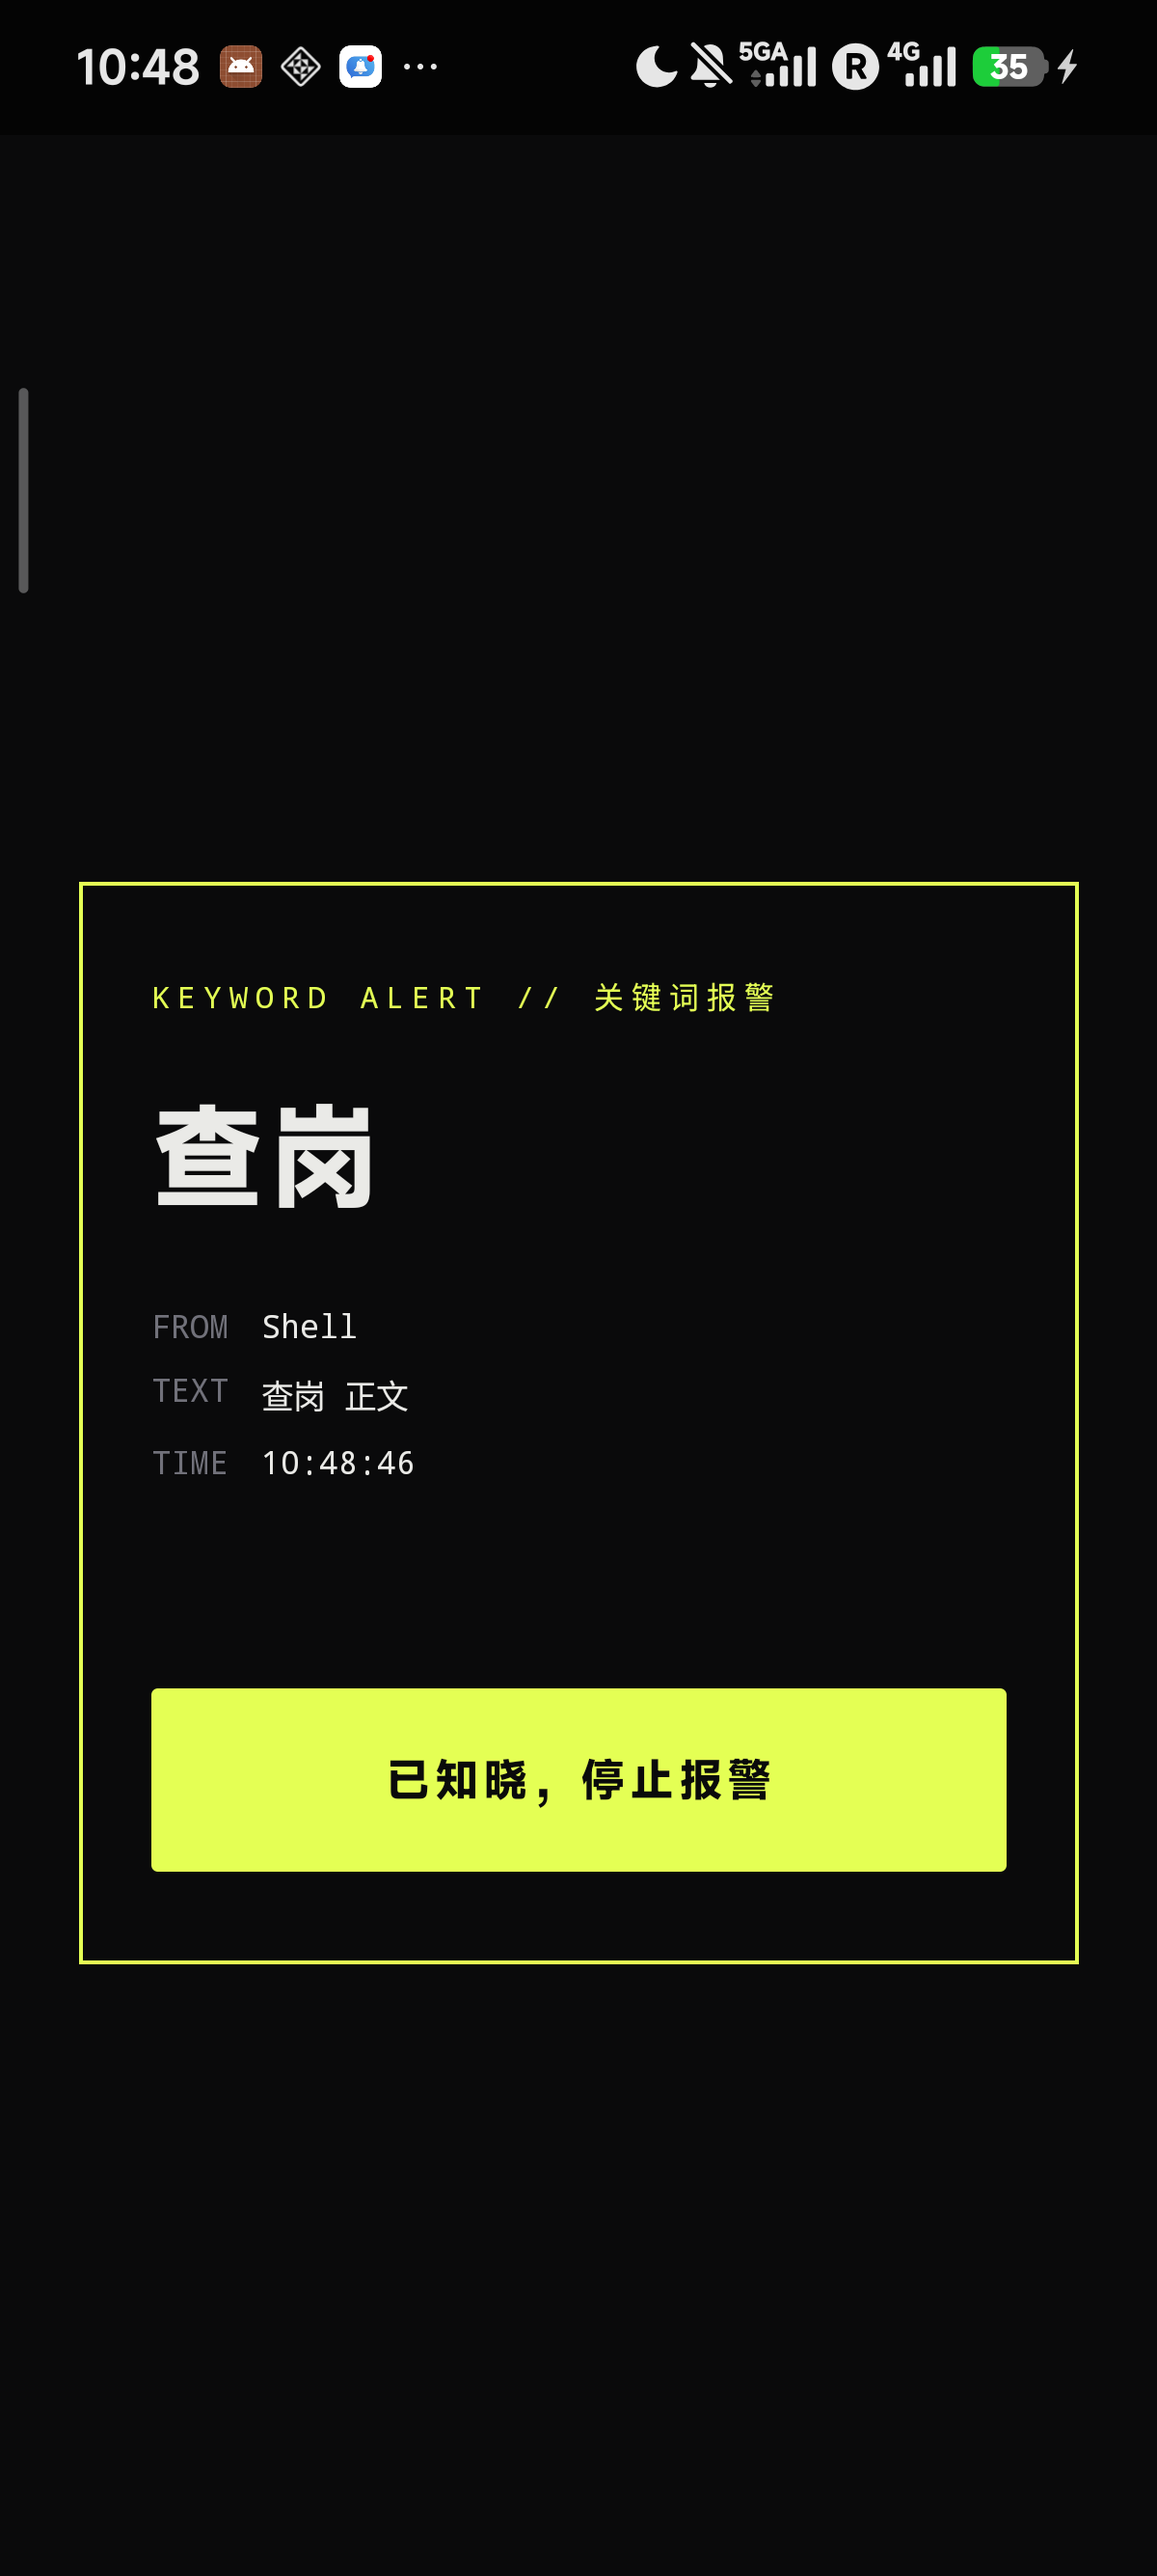
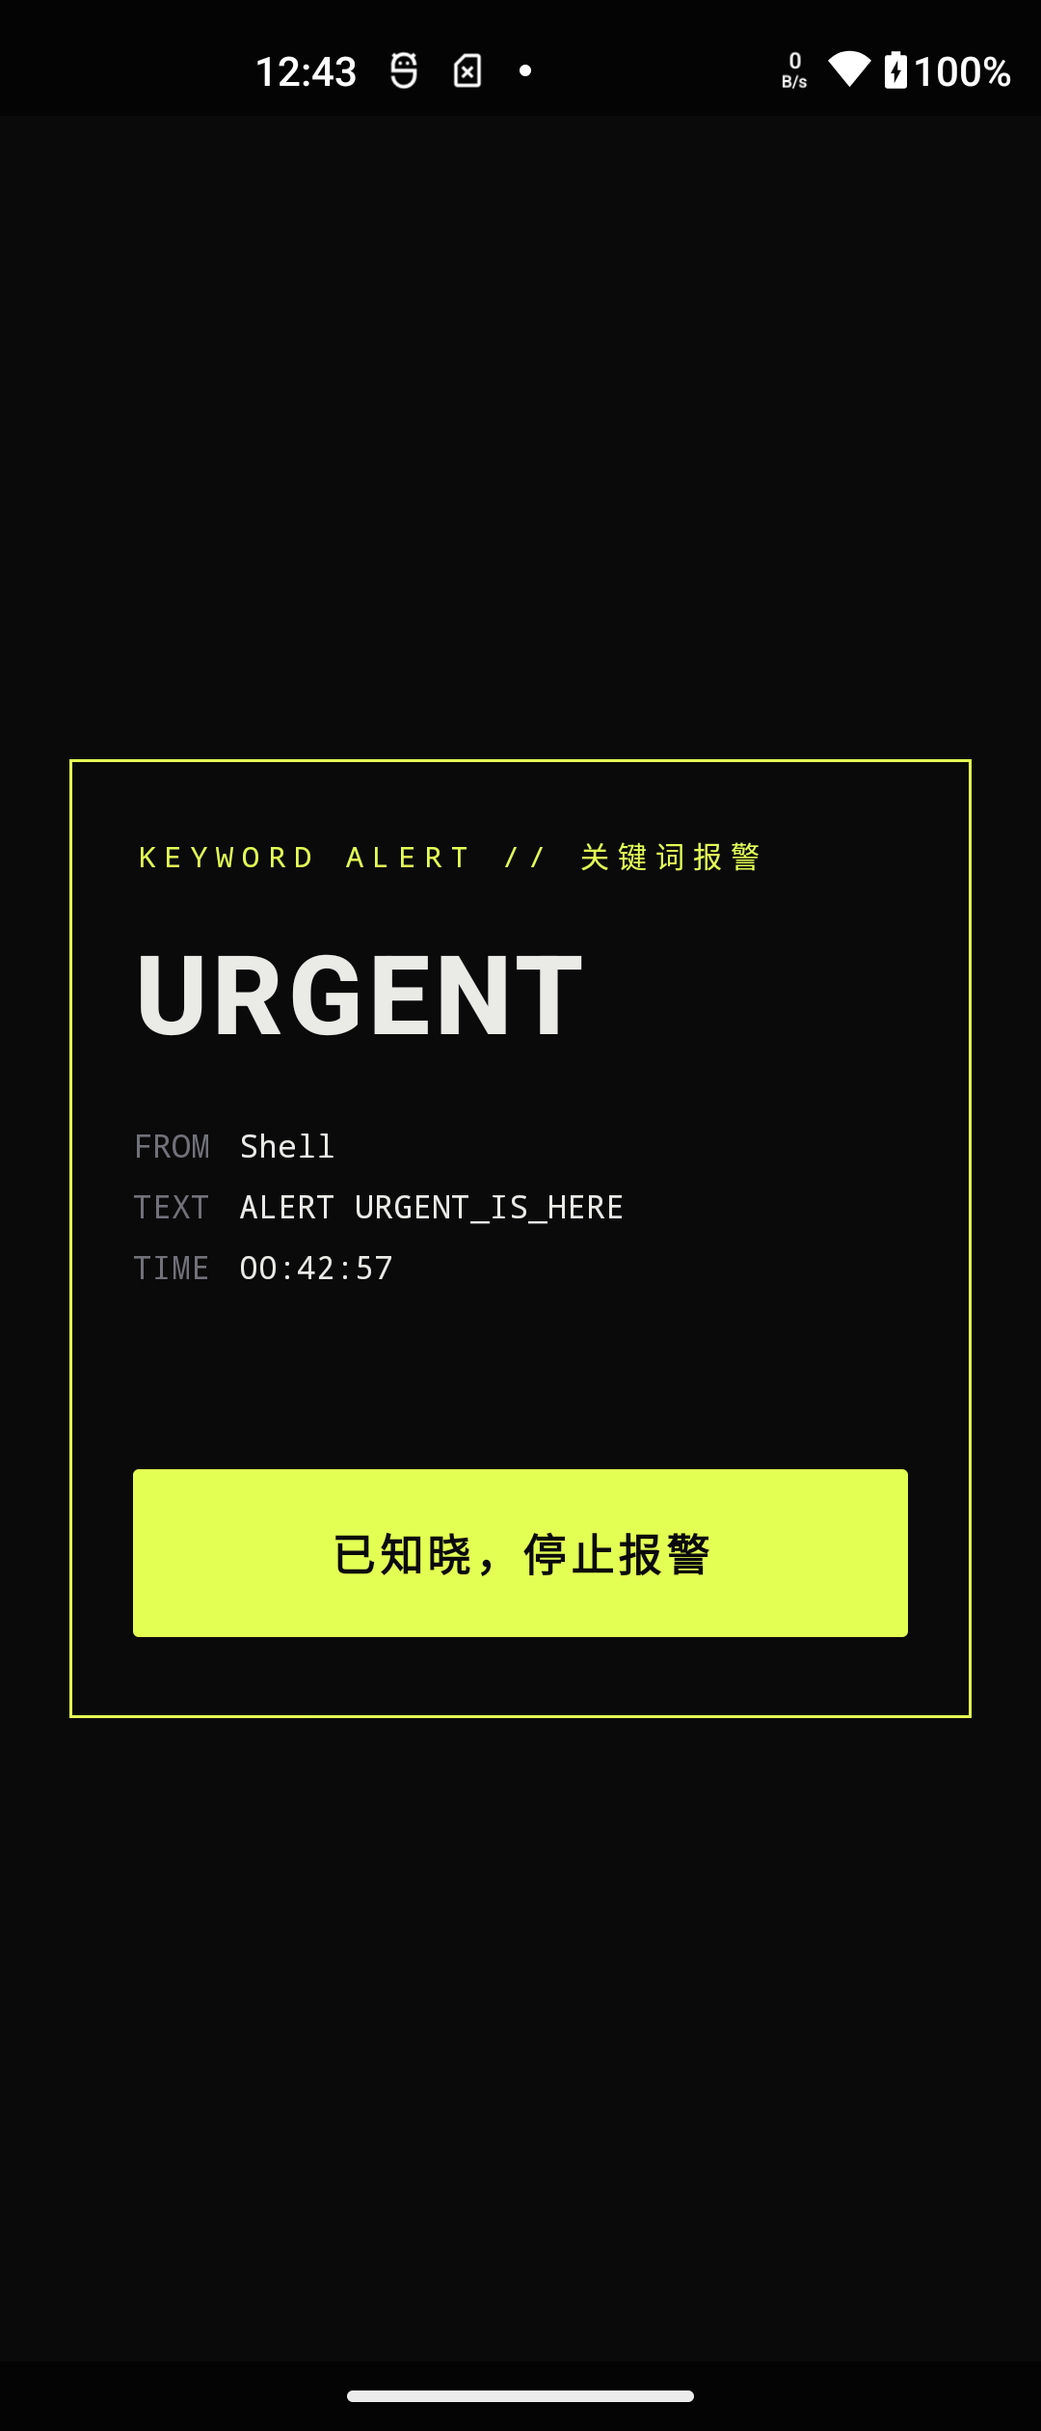
docs+素材: 文档体检优化与 v1.9.0 真机截图/GIF 更新
1. 文档对齐与结构优化
   - README 瘦身 156->75 行(doc-structure 标准 <=100): 删除 v1.8.2 过渡期签名密钥轮换公告与构建/安装操作细节(细节已在 AGENTS.md), 新增文档地图导航段, 版本 badge 更新 v1.9.0
   - ROADMAP: P0 已完成内容压缩为一段摘要(实现细节见 git 历史 3f9e7d8), 版本节奏表移除已完成 P0 行, 头部版本更新 v1.9.0(versionCode 15)
   - PRIVACY: 修复错别字"不做的的事"->"不做的事"
   - store/README: 英文文案中混入的中文方括号[Features]等改回英文 [] (商店英文描述会原样上架); 修正"设计稿见 design/"指引(design/ 是图标素材, UI 设计稿在 design-backup/)
   - AGENTS.md: 文档地图补齐 store/owner-checklist.md 与 design/ 目录登记, ROADMAP 行更新为 P1/P2

2. 真机素材更新(Motorola Edge S, release v1.9.0 实测截图)
   - image1-3.png 重新截图替换 v1.8.0 旧图: 服务开启主界面(含上滑把手)/报警全屏弹窗/应用过滤勾选置顶
   - 新增 demo.gif 报警闭环演示动画(触发->弹窗->确认->恢复, 320px/8fps/2.2MB), README 截图区增加"报警演示"行
   - 顺带: 删除根目录测试日志残留 vigil_log_20260729_225319.txt, .gitignore 增补 vigil_log_*.txt 防止再混入

影响范围: 仅仓库根目录文档与图片素材, 无代码改动.

diff --git a/store/README.md b/store/README.md
@@ -1,6 +1,6 @@
 # Vigil 商店文案素材
 
-供 Google Play 与国内各应用商店填表使用。截图与设计稿见 `design/` 目录。
+供 Google Play 与国内各应用商店填表使用。商店截图用仓库根目录 `image1.png` / `image2.png` / `image3.png`；UI 设计稿存档见 `design-backup/`，图标素材见 `design/icons/`。
 
 ---
 
@@ -74,7 +74,7 @@ Drowning in notifications? Vigil makes sure you never miss the ones that matter.
 
 Set your keywords, and Vigil monitors notifications from the apps you choose. When a notification matches a keyword, it fires a hard-to-ignore alarm: looping ringtone + screen wake + full-screen alert that keeps going until you acknowledge it. Missed it anyway? Unacknowledged alarms pop up again the next time you open the app.
 
-【Features】
+[Features]
 • Keyword monitoring: define multiple keywords, alarm on match
 • App filter: watch only the apps you care about
 • Hard-to-miss alarm: looping sound + wake lock + full-screen alert
@@ -82,16 +82,16 @@ Set your keywords, and Vigil monitors notifications from the apps you choose. Wh
 • Custom ringtone: uses system alarm sounds with independent volume
 • Diagnostic logs: optional export for troubleshooting (never contains notification content)
 
-【Use cases】
+[Use cases]
 • On-call engineers: catch alerts buried in chat groups at 3 AM
 • Parents: monitor school group messages for key announcements
 • Traders: catch specific signals from market apps
 • Any "I MUST see this message immediately" moment
 
-【Privacy】
+[Privacy]
 All processing happens entirely on your device. The app doesn't even declare the INTERNET permission — it is technically incapable of going online. No data collection, no ads, no analytics SDKs. Fully open source and auditable.
 
-【Permissions】
+[Permissions]
 • Notification Listener: core feature, reads notifications for local keyword matching
 • Foreground service / wake lock: keeps the alarm ringing and screen on
 • Ignore battery optimizations (optional): prevents the system from killing the alarm

diff --git a/AGENTS.md b/AGENTS.md
@@ -144,8 +144,9 @@ printf '%s' "vigil" | gh secret set VIGIL_KEY_ALIAS --repo XGWNJE/Vigil
 - `README.md` — 功能、使用、权限说明（功能事实的唯一来源）。
 - `PRIVACY.md` — 中英双语隐私政策（商店表单直接引用其 GitHub 链接）。
 - `store/README.md` — 商店上架文案与权限用途说明表。
+- `store/owner-checklist.md` — 上架执行清单（secrets / Play / 国内平台，需 owner 本人操作）。
 - `AGENTS.md` — 协作与真机测试规则（本文件）。
-- `ROADMAP.md` — 近期开发路线图（P0 设置入口与权限分级 / P1 关键词级铃声 / P2 自定义铃声来源）。
+- `ROADMAP.md` — 近期开发路线图（P1 关键词级铃声 / P2 自定义铃声来源）。
 - `release-notes/` — 各版本发行描述（`vX.Y.Z.md`，CI 创建 Release 时自动引用）。
-- `design-backup/` — UI 设计稿存档（PDF/PEN），只读参考。
+- `design/` — 图标与视觉素材（含生成脚本）；`design-backup/` — UI 设计稿存档（PDF/PEN），只读参考。
 - 事实变化时只更新负责该事实的文档。
